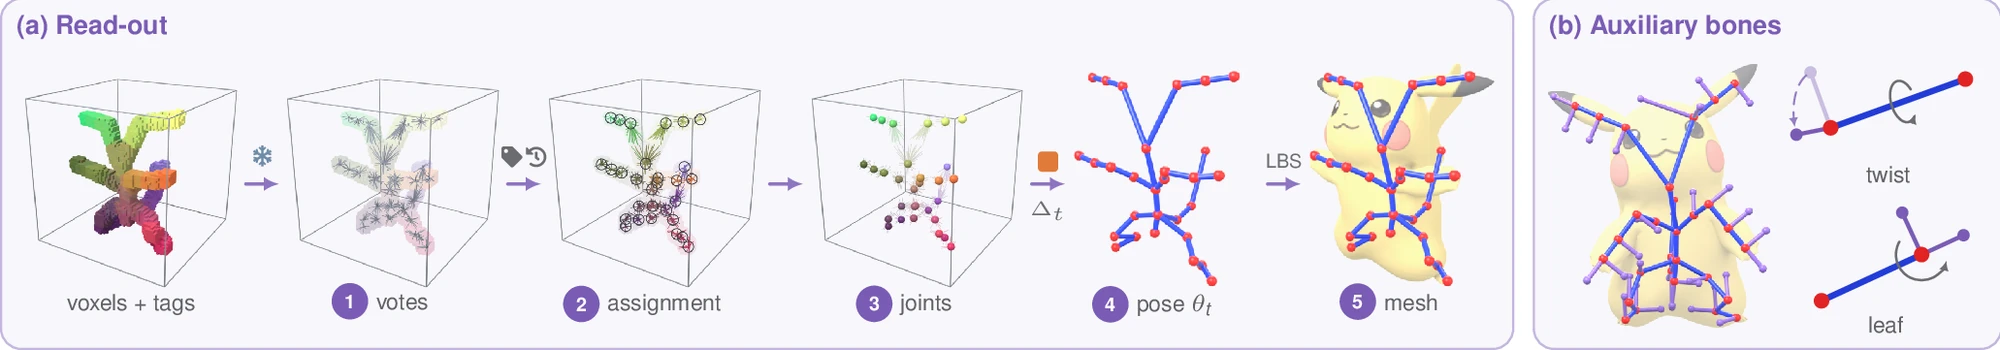
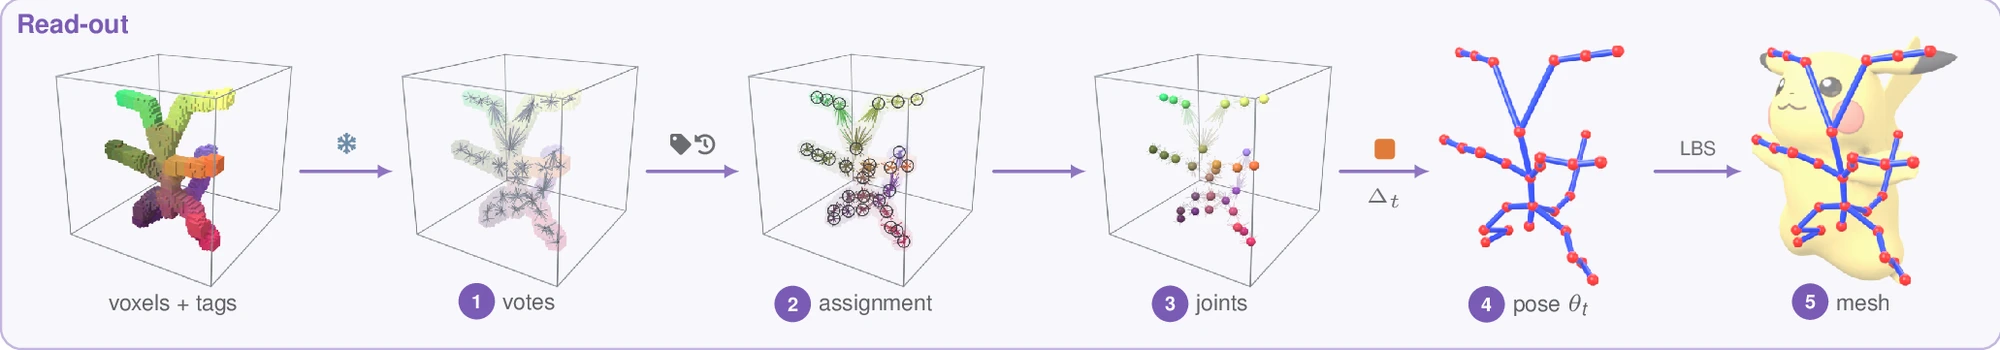
Auxiliary bones out of the page (they left the method): the read-out figure without its auxiliary-bone panel, the tokens caption without them

diff --git a/index.html b/index.html
@@ -407,10 +407,10 @@ footer p + p { margin-top: .4rem; }
       <div class="step"><span class="k">Read-out · how</span><h3>Joint transforms on the asset's own tree</h3><p>A deterministic fit turns the generated skeletons into rotations of the input rig's joints. Linear blend skinning then poses the input mesh: rigid parts stay rigid and bones keep their length by construction.</p></div>
     </div>
     <details class="more">
-      <summary>More detail: the tokens of a frame, auxiliary bones and the read-out</summary>
+      <summary>More detail: the tokens of a frame and the read-out</summary>
       <div class="inner">
         <figure><div class="fig-plate"><img src="media/fig/fig_tokens.webp" width="984" height="574" alt="Stage 2 tokens of one frame: shape tokens on surface voxels and skeleton tokens on skeleton voxels, each carrying latents and a joint tag." loading="lazy"></div>
-          <figcaption class="cap"><b>Stage 2 tokens.</b> Surface voxels carry shape and skin latents; skeleton voxels carry skeleton latents and a joint tag. Short auxiliary bones hung off leaf joints and joints with a single child make rotations visible that joint positions cannot reveal, such as a forearm twisting about its own axis.</figcaption></figure>
+          <figcaption class="cap"><b>Stage 2 tokens.</b> Surface voxels carry shape and skin latents; skeleton voxels carry skeleton latents and a joint tag.</figcaption></figure>
         <figure><div class="fig-plate"><img src="media/fig/fig_readout.webp" width="2000" height="350" alt="The read-out: skeleton voxels vote for joint positions, are grouped by joint, and a fit recovers joint rotations on the input rig." loading="lazy"></div>
           <figcaption class="cap"><b>Read-out.</b> Skeleton voxels vote for joint positions; votes are assigned to the input rig's joints by their tags and by tracking, and a regularised fit recovers each joint's transformation.</figcaption></figure>
       </div>
